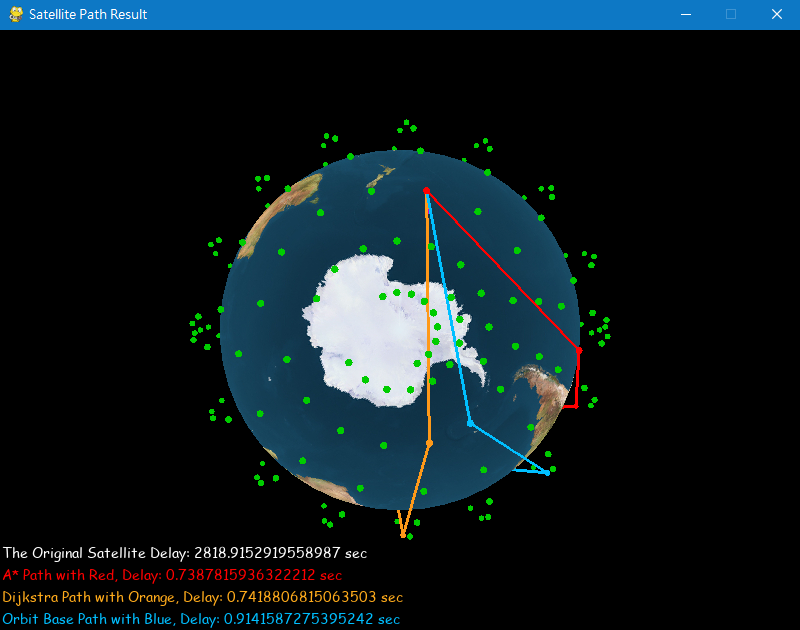
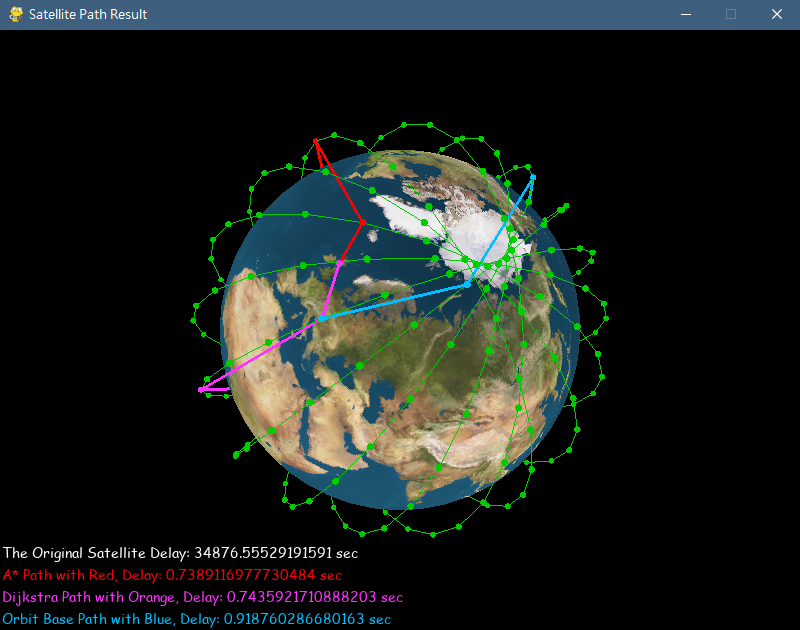
update orbit generate

Changed region(s): [[0.2188, 0.181, 0.7812, 0.8746], [0.0, 0.0, 1.0, 0.0603], [0.0, 0.8444, 0.5, 0.9952]]

diff --git a/include/Display_class.py b/include/Display_class.py
@@ -11,6 +11,7 @@ from include import Satellite_class
 from include import GroundStation_class
 from include import Observation_class
 from include import satcompute
+from include.Setting_class import Setting
 
 class Display:
     _sat_list = []
@@ -63,7 +64,7 @@ class Display:
         height += 2 + textSurface.get_height()
 
         # Dijkstra
-        textSurface = font.render("Dijkstra Path with Orange, Delay: " + str(cls._dijkstra_sat_commnicate_delay[-1]) + " sec", True, (255, 172, 28), (0, 0, 0))
+        textSurface = font.render("Dijkstra Path with Orange, Delay: " + str(cls._dijkstra_sat_commnicate_delay[-1]) + " sec", True, (255, 51, 255), (0, 0, 0))
         textData = pygame.image.tostring(textSurface, "RGBA", True)
         glWindowPos2d(2, height)
         glDrawPixels(textSurface.get_width(), textSurface.get_height(), GL_RGBA, GL_UNSIGNED_BYTE, textData)
@@ -127,7 +128,7 @@ class Display:
 
         glPushMatrix()
         glTranslatef(x, y, z)       # Move to the place
-        glColor3f(1.0, 0.6, 0.1)    # Put color
+        glColor3f(1.0, 0.2, 1.0)    # Put color
         gluSphere(cls._qobj, 0.1, 20, 20)  # may set to sat_class.Re
         glPopMatrix()
 
@@ -151,12 +152,58 @@ class Display:
             elif s in cls._orbit_sat_commnicate_path:
                 glColor3f(0.0, 0.75, 1.0)
             elif s in cls._dijkstra_sat_commnicate_path:
-                glColor3f(1.0, 0.6, 0.1) 
+                glColor3f(1.0, 0.2, 1.0) 
             else:
                 glColor3f(0.0, 0.8, 0.0)
 
             gluSphere(cls._qobj, 0.1, 20, 20)  # may set to sat_class.Re
 
+            glPopMatrix()
+
+
+    @classmethod
+    def __draw_orbit(cls):
+        glLineWidth(0.5)
+        orbit_num = len(cls._sat_list)//Setting.sat_size
+        for orbit_id in range(orbit_num):
+            for sat_id in range(Setting.sat_size-1):
+                s = orbit_id * Setting.sat_size + sat_id
+                glPushMatrix()
+
+                to_x, to_y, to_z = satcompute.get_sat_eci_xyz(0, cls._sat_list[s])
+                to_x /= cls._scale_rate
+                to_y /= cls._scale_rate
+                to_z /= cls._scale_rate
+
+                from_x, from_y, from_z = satcompute.get_sat_eci_xyz(0, cls._sat_list[s+1])
+                from_x /= cls._scale_rate
+                from_y /= cls._scale_rate
+                from_z /= cls._scale_rate
+                
+                glBegin(GL_LINES)
+                glColor3f(0.0, 0.8, 0.0) #Put color
+                glVertex3f(to_x, to_y, to_z)
+                glVertex3f(from_x, from_y, from_z)
+                glEnd()
+                glPopMatrix()
+
+            glPushMatrix()
+
+            to_x, to_y, to_z = satcompute.get_sat_eci_xyz(0, cls._sat_list[s+1])
+            to_x /= cls._scale_rate
+            to_y /= cls._scale_rate
+            to_z /= cls._scale_rate
+
+            from_x, from_y, from_z = satcompute.get_sat_eci_xyz(0, cls._sat_list[orbit_id * Setting.sat_size])
+            from_x /= cls._scale_rate
+            from_y /= cls._scale_rate
+            from_z /= cls._scale_rate
+            
+            glBegin(GL_LINES)
+            glColor3f(0.0, 0.8, 0.0) #Put color
+            glVertex3f(to_x, to_y, to_z)
+            glVertex3f(from_x, from_y, from_z)
+            glEnd()
             glPopMatrix()
 
     
@@ -177,7 +224,7 @@ class Display:
         from_z /= cls._scale_rate
         
         glBegin(GL_LINES)
-        glColor3f(1.0, 0.6, 0.1) #Put color
+        glColor3f(1.0, 0.2, 1.0) #Put color
         glVertex3f(to_x, to_y, to_z)
         glVertex3f(from_x, from_y, from_z)
         glEnd()
@@ -216,7 +263,7 @@ class Display:
             from_z /= cls._scale_rate
             
             glBegin(GL_LINES)
-            glColor3f(1.0, 0.6, 0.1) #Put color
+            glColor3f(1.0, 0.2, 1.0) #Put color
             glVertex3f(to_x, to_y, to_z)
             glVertex3f(from_x, from_y, from_z)
             glEnd()
@@ -274,7 +321,7 @@ class Display:
             from_z /= cls._scale_rate
             
             glBegin(GL_LINES)
-            glColor3f(1.0, 0.6, 0.1) #Put color
+            glColor3f(1.0, 0.2, 1.0) #Put color
             glVertex3f(to_x, to_y, to_z)
             glVertex3f(from_x, from_y, from_z)
             glEnd()
@@ -402,6 +449,8 @@ class Display:
             cls.__draw_ground()
 
             cls.__draw_sat()
+
+            cls.__draw_orbit()
 
             cls.__draw_path()
 

diff --git a/main.py b/main.py
@@ -36,7 +36,7 @@ Setting.display()
 
 sat_list = []
 first_Omega = 0  # first right ascension of ascending node (rad)
-even_Omega = 180 / (Setting.orbit_size-1)
+even_Omega = 180 / Setting.orbit_size
 for orbit_id in range(Setting.orbit_size):
     Omega_o = math.radians(first_Omega + orbit_id * even_Omega)
     first_M = 0  # first satellite posistion in the orbit

diff --git a/test_sat_to_gs.py b/test_sat_to_gs.py
@@ -39,7 +39,7 @@ n = 25                 # number of sat
 
 sat_list = []
 first_Omega = 0  # longitude of ascending node of the first orbit
-even_Omega = 180 / (m-1)
+even_Omega = 180 / m
 for orbit_id in range(m):
     Omega_o = math.radians(first_Omega + orbit_id * even_Omega)
     first_M = 0  # first satellite posGGtion of this orbit

diff --git a/test_sat_to_gs_distance.py b/test_sat_to_gs_distance.py
@@ -42,7 +42,7 @@ t = 0
 
 sat_list = []
 first_Omega = 0  # longitude of ascending node of the first orbit
-even_Omega = 180 / (m-1)
+even_Omega = 180 / m
 for orbit_id in range(m):
     Omega_o = math.radians(first_Omega + orbit_id * even_Omega)
     first_M = 0  # first satellite posGGtion of this orbit

diff --git a/test_orginal_delay.py b/test_orginal_delay.py
@@ -30,7 +30,7 @@ n = 25
 
 sat_list = []
 first_Omega = 0  # first right ascension of ascending node (rad)
-even_Omega = 180 / (m-1)
+even_Omega = 180 / m
 for orbit_id in range(m):
     Omega_o = math.radians(first_Omega + orbit_id * even_Omega)
     first_M = 0  # first satellite posistion in the orbit

diff --git a/test_sat_to_gd.py b/test_sat_to_gd.py
@@ -28,7 +28,7 @@ n = 25
 
 sat_list = []
 first_Omega = 0  # first right ascension of ascending node (rad)
-even_Omega = 180 / (m-1)
+even_Omega = 180 / m
 for orbit_id in range(m):
     Omega_o = math.radians(first_Omega + orbit_id * even_Omega)
     first_M = 0  # first satellite posistion in the orbit
